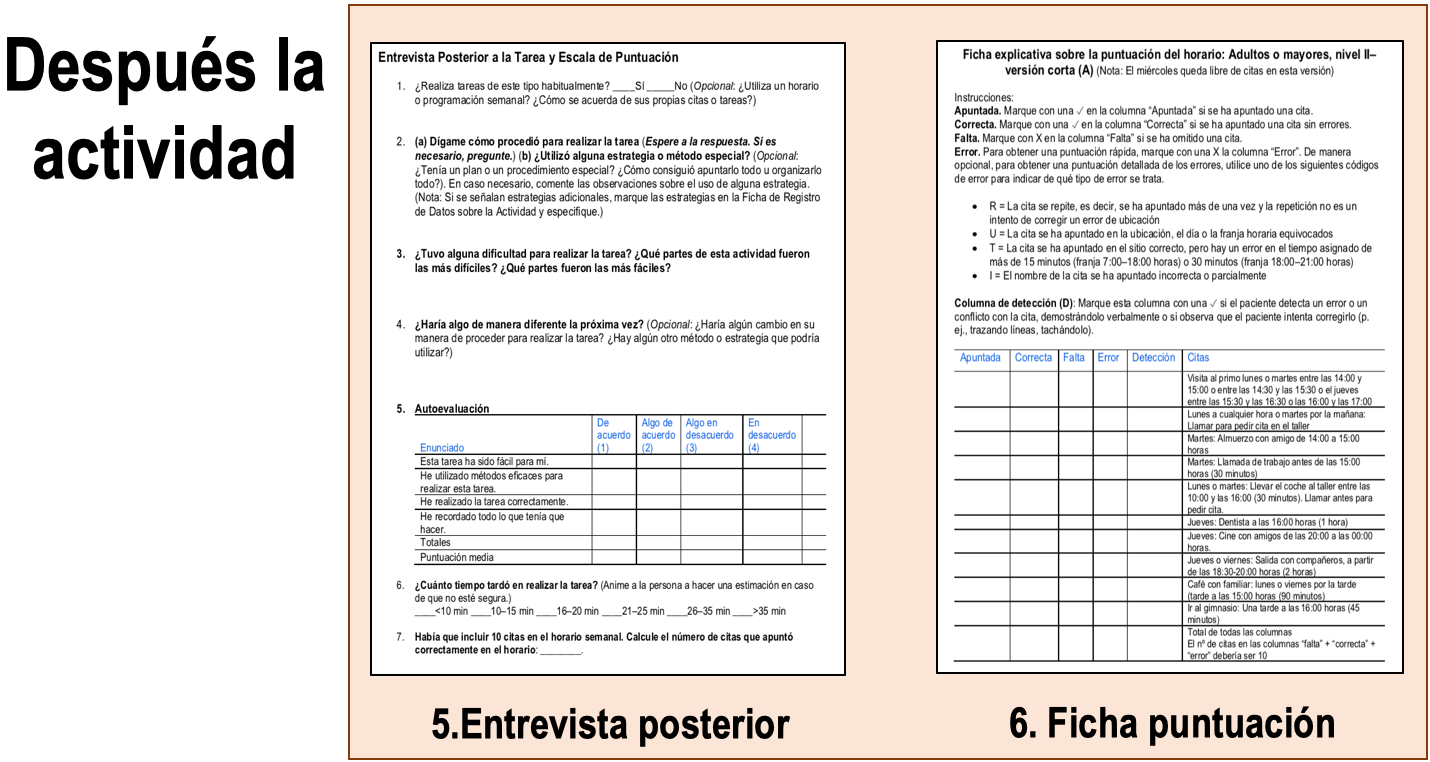
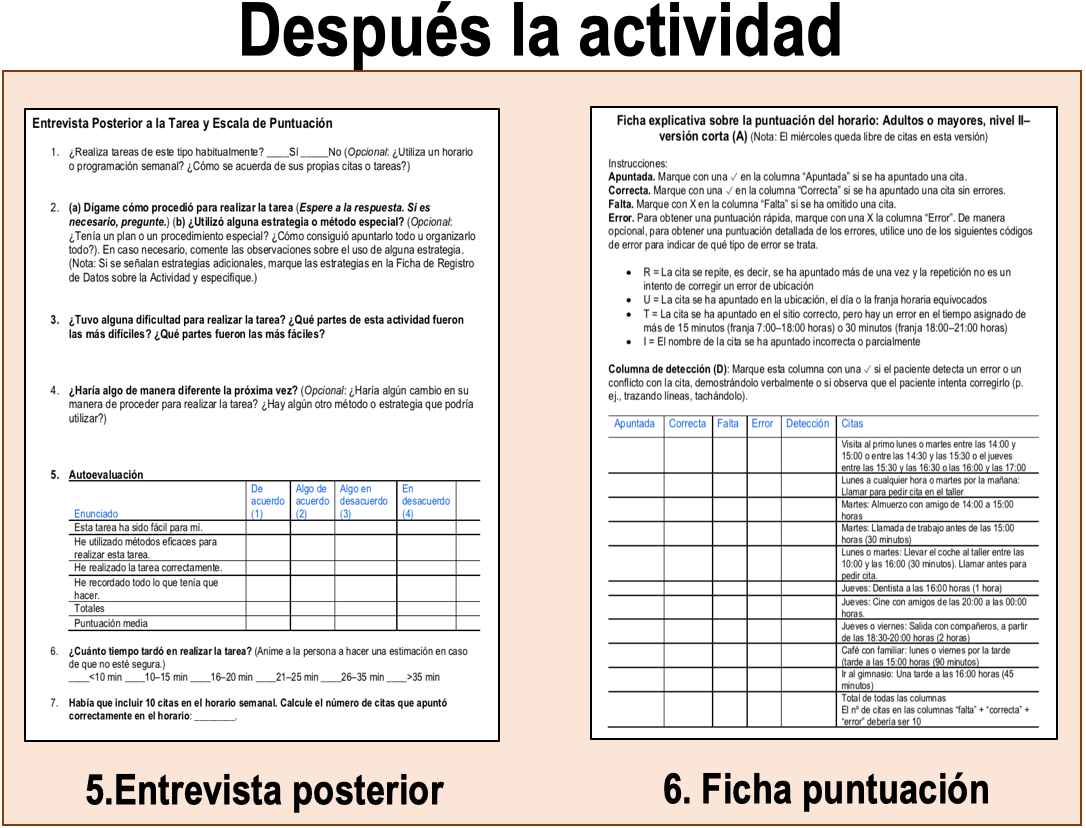
formularios-terapeuta

diff --git a/index.html b/index.html
@@ -236,9 +236,9 @@ background-size: 95%
 # **Disposición de los materiales**
  
 ---
-background-image: url(https://github.com/danielesnm/cursoWeekly/blob/master/imagenes/Acomodoterapeuta.png?raw=true)
-background-position: 50% 90%
-background-size: 95%
+background-image: url(https://github.com/danielesnm/cursoWeekly/blob/master/imagenes/ants%20de%20la%20actividad.png?raw=true), url(https://github.com/danielesnm/cursoWeekly/blob/master/imagenes/durante%20la%20actividad.png?raw=true), url(https://github.com/danielesnm/cursoWeekly/blob/master/imagenes/despues%20de%20la%20actividad.png?raw=true)
+background-position: 10% 10%, 90% 10%, 50% 90%
+background-size: 60%, 60%, 60%
 # **Material de la terapeuta**
 
 ---
